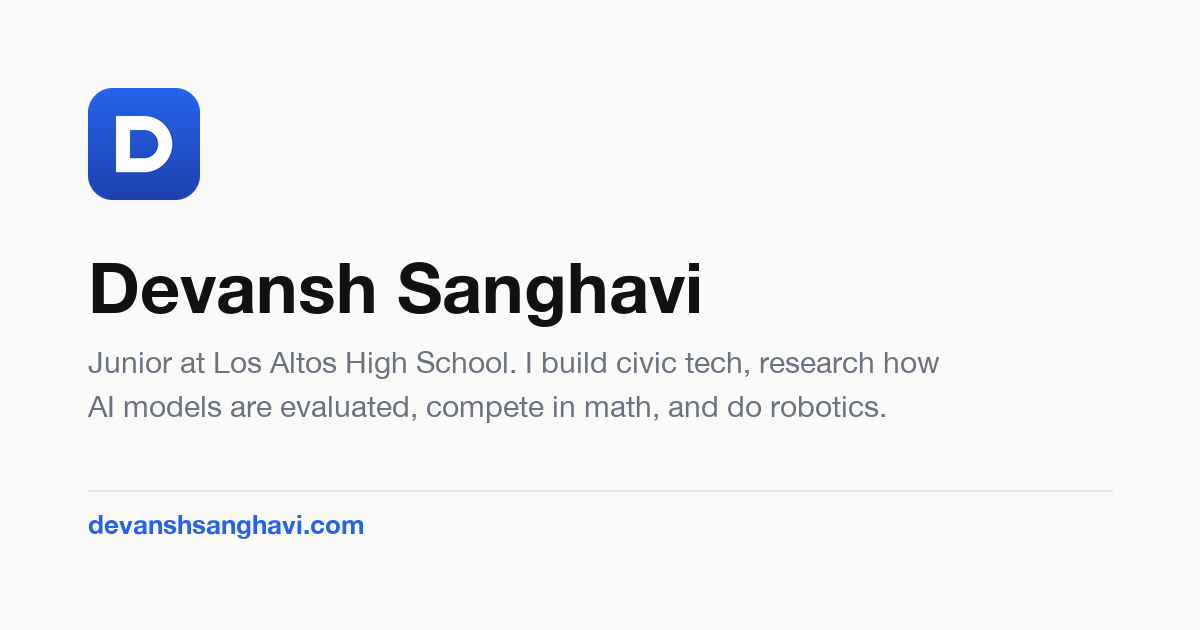
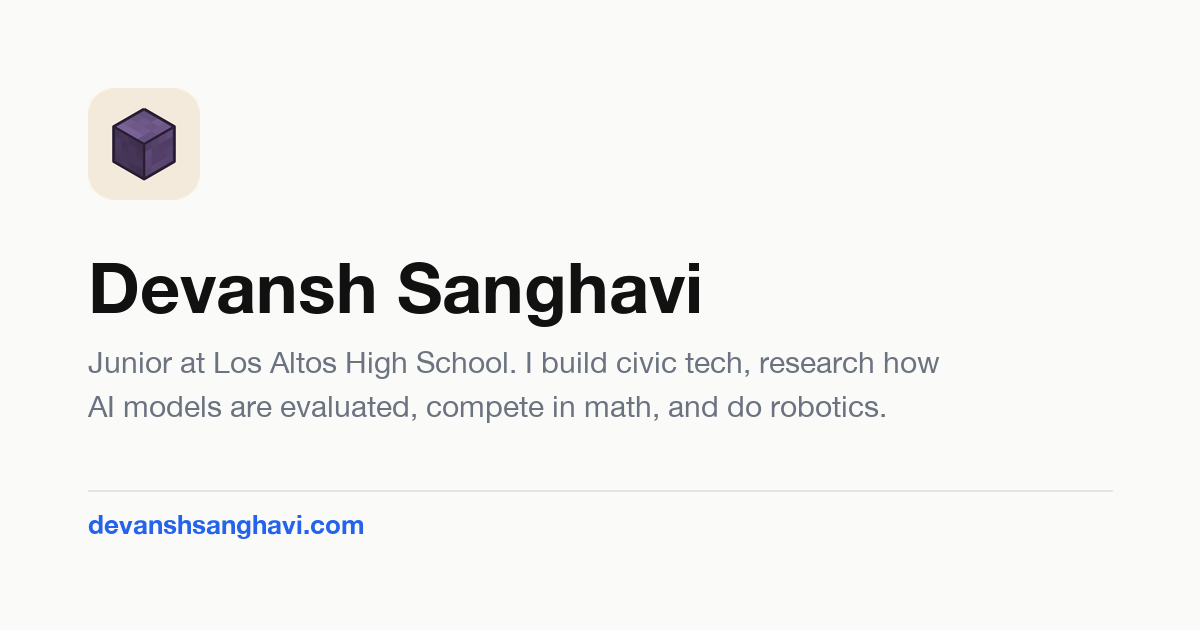
Replace the D mark with a textured block on cream
The D read as generated. The mark is now an isometric block with
per-face shading and a pixel texture, in muted purple on a cream tile,
following the reference sent.

The earlier cube was not a cube: it used a half-width equal to its
edge, where a true isometric projection needs edge times cos 30. The
geometry is corrected, so x, y and z are now equal.

Every size is regenerated from one geometry, the SVG included, so the
vector and the PNGs cannot drift. theme-color follows the cream.

Also drops CivicPulse from the hero, which now carries only the
connection links. CivicPulse is still linked from its project entry.

Changed region(s): [[0.0617, 0.1206, 0.185, 0.3317]]

diff --git a/index.html b/index.html
@@ -13,7 +13,7 @@
 <link rel="icon" href="images/favicon-32.png" sizes="32x32" type="image/png" />
 <link rel="icon" href="images/favicon-16.png" sizes="16x16" type="image/png" />
 <link rel="apple-touch-icon" href="images/apple-touch-icon.png" />
-<meta name="theme-color" content="#1E40AF" />
+<meta name="theme-color" content="#F3EADB" />
 
 <!-- Social preview card, shown when the link is shared. -->
 <link rel="canonical" href="https://devanshsanghavi.com/" />
@@ -559,8 +559,7 @@
         <h1 class="home-name">Devansh Sanghavi</h1>
         <p class="home-tagline">Junior at Los Altos High School. I build civic tech, research how AI models are evaluated, compete in math, and do robotics.</p>
         <p class="home-links">
-          <a href="https://civicpulse.pro/" target="_blank" rel="noopener">CivicPulse &#8599;</a>
-          <span class="pair"><span class="sep">&middot;</span><a href="https://github.com/devanshsanghavi-droid" target="_blank" rel="noopener">GitHub &#8599;</a></span>
+          <a href="https://github.com/devanshsanghavi-droid" target="_blank" rel="noopener">GitHub &#8599;</a>
           <span class="pair"><span class="sep">&middot;</span><a href="https://www.linkedin.com/in/devansh-sanghavi-146941354/" target="_blank" rel="noopener">LinkedIn &#8599;</a></span>
           <span class="pair"><span class="sep">&middot;</span><a href="https://mail.google.com/mail/?view=cm&amp;fs=1&amp;to=devansh.sanghavi@gmail.com" target="_blank" rel="noopener">Email &#8599;</a></span>
         </p>
